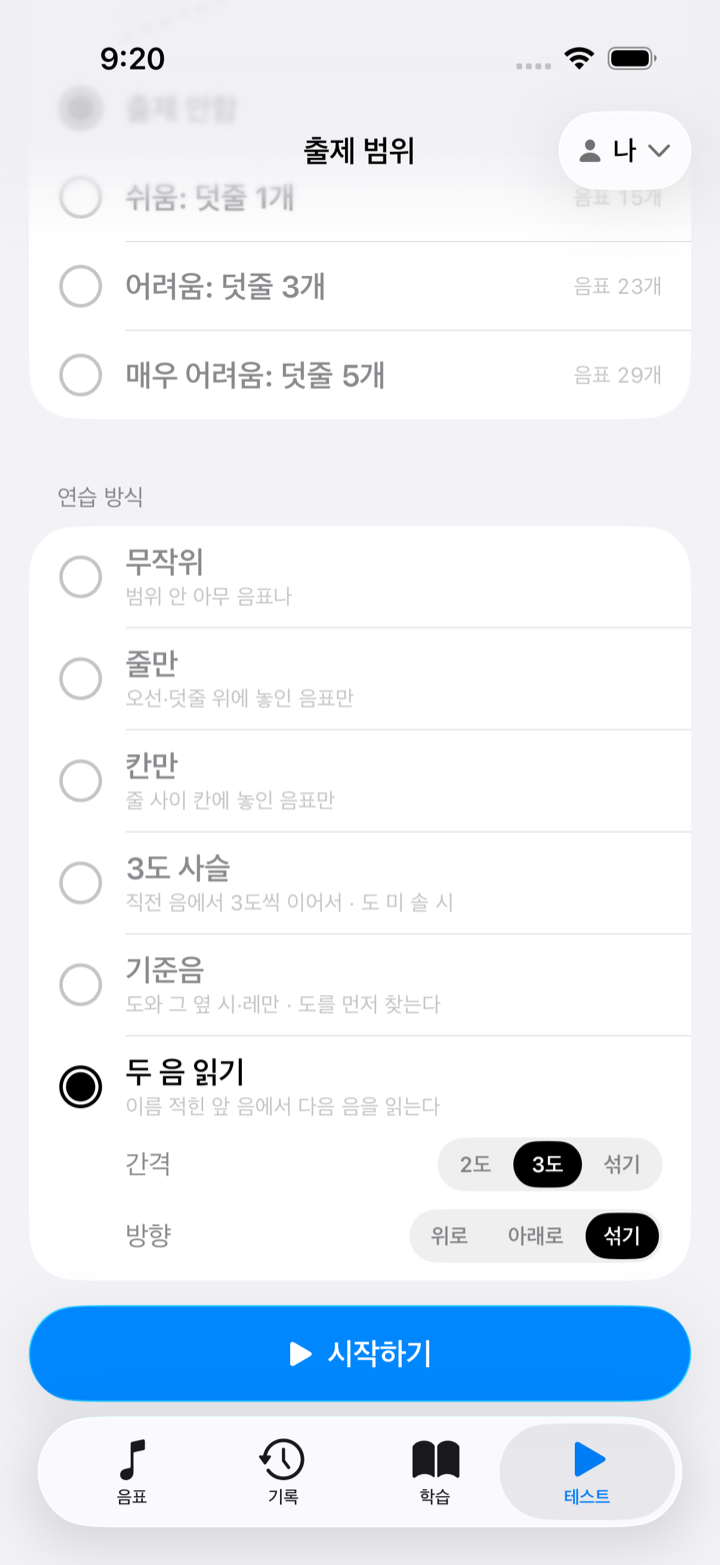
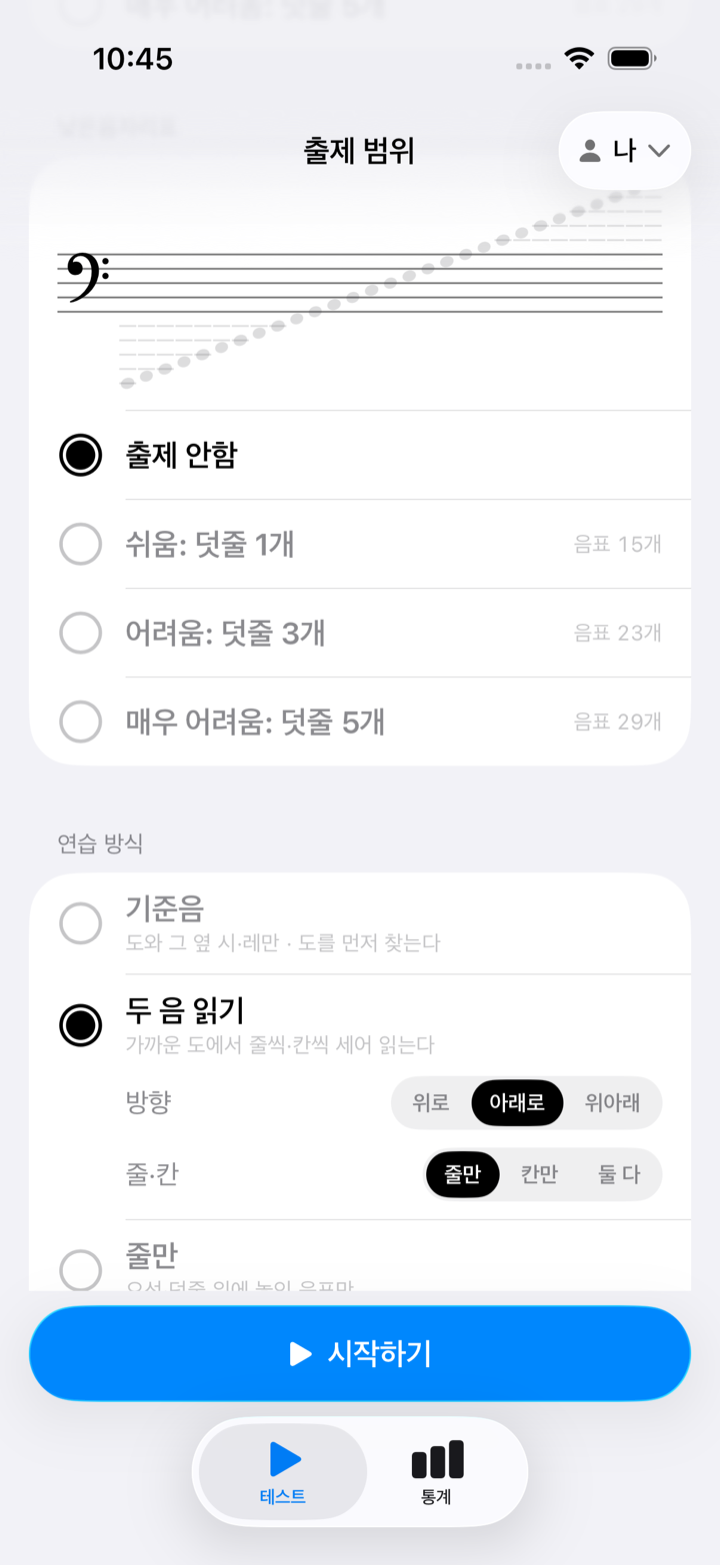
improve: blog — 계이름 퀴즈에 '어떻게 나올지'를 고르는 축을 하나 더 달았다 (merge 2026-09-21)
Merge the same-day follow-up into the practice-modes post: the chain of thirds is gone, two-note reading counts from the nearest do with dotted skip hints and dotted ledger lines, landmarks show the do slot. Sentences the app no longer follows (six styles, interval option, first note inside the range) are fixed in place; a dated section explains the reversal. Screenshots replaced with the new drills.

Claude-Session: https://claude.ai/code/session_016nZB67zdWrdkd6QGu3LUgj

diff --git a/src/content/blog/ko/2026-09-21-notequiz-practice-modes.md b/src/content/blog/ko/2026-09-21-notequiz-practice-modes.md
@@ -3,55 +3,77 @@ title: "계이름 퀴즈에 '어떻게 나올지'를 고르는 축을 하나 더
 date: 2026-09-21
 app: "notequiz"
 tags: ["devlog", "design", "swiftui"]
-summary: "출제 범위는 무엇이 나올 수 있는지만 정한다. 그 안에서 줄만·칸만, 3도씩 이어서, 도 찾기, 앞 음을 보고 다음 음 읽기까지 — 연습 방식을 따로 고르게 했다. 옥타브별로 나누자는 첫 생각은 버렸다."
+summary: "출제 범위는 무엇이 나올 수 있는지만 정한다. 그 안에서 도 찾기, 가까운 도에서 줄씩·칸씩 세어 읽기, 줄만·칸만 — 연습 방식을 따로 고르게 했다. 옥타브별로 나누자는 첫 생각과 3도 사슬은 버렸다."
 ---
 
-SuperNoteQuiz 의 테스트 탭에 `연습 방식` 카드가 하나 생겼다. 전에는 음자리표마다 덧줄을 몇 개까지 낼지(쉬움·어려움·매우 어려움)만 고르면 그 범위 안에서 음표 하나가 무작위로 나왔다. 이제 그 범위 안에서 *어떻게* 나올지를 따로 고른다. 줄 위 음표만, 칸 안 음표만, 직전 음에서 3도씩 이어서, 도와 그 옆만, 이름이 적힌 앞 음을 보고 다음 음 읽기. 범위와 방식은 곱이라, "낮은음자리표 쉬움 × 3도 사슬 아래로" 가 곧 "가온다에서 도 라 파 레 시 솔 미 도 로 내려가기" 가 된다.
+SuperNoteQuiz 의 테스트 탭에 `연습 방식` 카드가 하나 생겼다. 전에는 음자리표마다 덧줄을 몇 개까지 낼지(쉬움·어려움·매우 어려움)만 고르면 그 범위 안에서 음표 하나가 무작위로 나왔다. 이제 그 범위 안에서 *어떻게* 나올지를 따로 고른다. 도와 그 옆만, 이름이 적힌 가까운 도에서 세어 다음 음 읽기, 줄 위 음표만, 칸 안 음표만, 무작위. 범위와 방식은 곱이라, "낮은음자리표 쉬움 × 두 음 읽기 아래로" 가 곧 "가온다에서 내려가며 세기" 가 된다.
 
 ## 범위는 '무엇이', 방식은 '어떻게'
 
-무작위 단음 퀴즈로는 안 늘던 게 있었다. 오선 읽기의 골격은 줄 사슬(미 솔 시 레 파)과 칸 사슬(파 라 도 미)인데, 무작위로 섞여 나오면 그 사슬이 머리에 안 잡힌다. 그리고 실제 초견은 절대 위치를 하나씩 읽는 게 아니라 *직전 음에서 얼마나 움직였나* 를 읽는다. 단음 문제만으로는 그 감각이 안 생긴다.
+무작위 단음 퀴즈로는 안 늘던 게 있었다. 오선 읽기의 골격은 줄 사슬(미 솔 시 레 파)과 칸 사슬(파 라 도 미)인데, 무작위로 섞여 나오면 그 사슬이 머리에 안 잡힌다. 그리고 실제 초견은 절대 위치를 하나씩 읽는 게 아니라 *아는 음에서 얼마나 떨어졌나* 를 읽는다. 단음 문제만으로는 그 감각이 안 생긴다.
 
-그래서 방식을 여섯 칸으로 뒀다.
+그래서 방식을 다섯 칸으로 뒀다. 순서는 배우는 차례다.
 
 | 방식 | 나오는 것 |
 |------|-----------|
-| 무작위 | 지금까지의 방식. 기본값 |
-| 줄만 / 칸만 | 오선 위치가 짝수인 음표만, 홀수인 음표만 |
-| 3도 사슬 | 문제는 단음이지만 순서가 직전 음의 3도 위(또는 아래). 위로·아래로·번갈아 |
 | 기준음 | 도와 그 바로 옆 시·레만. 도를 먼저 찾고 한 칸 세는 연습 |
-| 두 음 읽기 | 오선에 음표 둘. 앞 음엔 이름이 적혀 있고, 다음 음의 이름을 답한다. 간격 2도·3도·섞기, 방향 위로·아래로·섞기 |
+| 두 음 읽기 | 오선에 이름 적힌 가까운 도와 문제 음. 도에서 줄씩·칸씩 세어 문제 음의 이름을 답한다. 방향 위로·아래로·위아래, 종류 줄만·칸만·둘 다 |
+| 줄만 / 칸만 | 오선 위치가 짝수인 음표만, 홀수인 음표만 |
+| 무작위 | 지금까지의 방식. 여전히 기본값 |
 
-![연습 방식 카드. 고른 행 아래에만 그 방식의 보조 값(간격·방향)이 펼쳐진다](/blog/notequiz-practice-modes/practice-card.png)
+![연습 방식 카드. 고른 행 아래에만 그 방식의 보조 값(방향·줄칸)이 펼쳐진다](/blog/notequiz-practice-modes/practice-card.png)
 
-고른 방식에 딸린 값은 그 행 바로 아래에 펼쳤다. 사슬에는 방향이, 두 음 읽기에는 간격과 방향이 있는데, 이걸 카드로 따로 빼면 어느 방식의 값인지를 글로 설명해야 한다. 행 아래 붙어 있으면 자리가 소속을 말한다. 방식을 바꿔도 보조 값은 지우지 않는다 — 돌아왔을 때 아까 그 값이 그대로 있어야 한다.
+고른 방식에 딸린 값은 그 행 바로 아래에 펼쳤다. 두 음 읽기에는 방향과 종류가 있는데, 이걸 카드로 따로 빼면 어느 방식의 값인지를 글로 설명해야 한다. 행 아래 붙어 있으면 자리가 소속을 말한다. 방식을 바꿔도 보조 값은 지우지 않는다 — 돌아왔을 때 아까 그 값이 그대로 있어야 한다.
 
-줄만·칸만·기준음처럼 범위 안에서 다시 거르는 방식은 위쪽 미리보기에도 반영된다. 범위 안 음표 중 그 방식이 통과시킨 것만 잉크로 물든다. 생성기와 미리보기가 같은 판단 함수 하나를 본다.
+범위 안에서 다시 거르는 방식은 위쪽 미리보기에도 반영된다. 범위 안 음표 중 그 방식이 문제로 낼 수 있는 것만 잉크로 물든다. 생성기와 미리보기가 같은 판단 함수 하나를 본다.
 
 ![줄만을 고르면 미리보기에서 줄 위 음표만 잉크로 남는다](/blog/notequiz-practice-modes/lines-only-preview.png)
 
 ## 옥타브별로 나누자는 첫 생각을 버린 이유
 
-처음엔 "한 옥타브 안에서만 띄어세기" 를 생각했다. 도는 가온다에서 덧줄(줄) 위에 있고 한 옥타브 위에서는 칸에 있으니, 같은 이름이라도 줄·칸이 바뀌어 헷갈린다는 이유였다. 그런데 셈을 해 보면 3도 위는 줄이면 항상 줄, 칸이면 항상 칸이다. 바뀌는 건 "이름 → 줄/칸" 대응이고 그 주기가 정확히 8음, 즉 한 옥타브다. 높은음자리표 줄 사슬을 가온다에서 시작하면 도 미 솔 시 레 파 라 도 — 이 여덟 개가 한 바퀴다.
-
-그러니 옥타브로 자르면 사슬이 반으로 끊긴다. 대신 사슬을 `(음자리표, 줄/칸, 방향)` 으로 정의하고 범위 끝까지 한 번에 돌게 했다. 옥타브를 넘어가는 지점이 오히려 연습 포인트다. 사슬이 끝에 닿으면 반대 종류(줄이었으면 칸)의 맨 아래에서 다시 시작하고, `번갈아` 는 꼭대기에서 같은 사슬을 거꾸로 읽은 뒤 바닥에서 종류를 바꾼다.
+처음엔 "한 옥타브 안에서만 띄어세기" 를 생각했다. 도는 가온다에서 덧줄(줄) 위에 있고 한 옥타브 위에서는 칸에 있으니, 같은 이름이라도 줄·칸이 바뀌어 헷갈린다는 이유였다. 그런데 셈을 해 보면 3도 위는 줄이면 항상 줄, 칸이면 항상 칸이다. 바뀌는 건 "이름 → 줄/칸" 대응이고 그 주기가 정확히 8음, 즉 한 옥타브다. 그러니 옥타브로 자르면 세는 길이 반으로 끊긴다. 옥타브를 넘어가는 지점이 오히려 연습 포인트다.
 
 기준음도 비슷하게 단순해졌다. 두 음자리표는 가온다를 중심으로 거울이다 — 높은음자리표에서 `p` 위치의 도는 낮은음자리표 `-p` 위치의 도와 짝이다. 처음엔 도만 내고 옥타브(C3·C4·C5)를 답하게 할까 했는데, 그러면 답 트레이가 하나 더 생긴다. 도·시·레만 내면 기존 일곱 칸 트레이 그대로 "도를 찾고 한 칸 센다" 가 되고, 문제마다 재는 시계가 "도를 몇 초에 찾나" 를 말해 준다. 옥타브 답은 나중 몫으로 남겼다.
 
-## 앞 음의 이름은 답이 아니다
+## 도의 이름과 점선은 답이 아니다
 
-이 앱에는 "틀렸을 때 정답을 어떤 문자열로도 보여 주지 않는다" 는 규칙이 있다. 두 음 읽기는 오선에 이름을 적는다. 규칙과 부딪히는 것처럼 보이지만, 적히는 건 *이미 지나간 음* 이고 답은 그 다음 음이다. 앞 음이 미라는 걸 알려 주는 게 이 연습의 전제다.
+이 앱에는 "틀렸을 때 정답을 어떤 문자열로도 보여 주지 않는다" 는 규칙이 있다. 두 음 읽기는 오선에 이름을 적는다. 규칙과 부딪히는 것처럼 보이지만, 적히는 건 *주어진 도* 이고 답은 그 도에서 세어 닿는 음이다. 도가 어디인지 아는 게 이 연습의 전제다.
 
-![앞 음 미 옆에 이름이 적혀 있고, 그 3도 위의 음이 문제다](/blog/notequiz-practice-modes/two-note-reading.png)
+이름을 어디에 적을지는 오선이 정해 줬다. 머리 아래는 아래로 뻗는 꼬리(70pt)가, 머리 위아래 두 칸(23pt)은 다음 덧줄이 차지한다. 비어 있는 자리는 머리 왼쪽뿐이다. 그래서 두 음 쌍 전체를 조금 오른쪽으로 밀고, 도 머리 왼쪽에 머리 높이로 이름을 적었다. 내 답이 아니라 주어진 값이라 잉크가 아니라 회색이다.
 
-이름을 어디에 적을지는 오선이 정해 줬다. 머리 아래는 아래로 뻗는 꼬리(70pt)가, 머리 위아래 두 칸(23pt)은 다음 덧줄이 차지한다. 비어 있는 자리는 머리 왼쪽뿐이다. 그래서 두 음 쌍 전체를 조금 오른쪽으로 밀고, 앞 음 머리 왼쪽에 머리 높이로 이름을 적었다. 내 답이 아니라 주어진 값이라 잉크가 아니라 회색이다. 앞 음도 고른 범위 안에 있어야 한다 — 범위 밖 음을 이름 붙여 보여 주면 "덧줄 1개까지" 라는 약속이 깨진다.
+세션 칩에는 `두 음 읽기 · 줄 ↓` 처럼 방식이 붙고, 무작위는 아무것도 안 붙는다. 기본값을 모든 행에 적으면 아무것도 구별하지 못한다.
 
-3도 사슬은 다음 문제가 예측된다. 문제 화면에 현재 문제의 답에 가까워지는 정보를 두지 않는다는 규칙이 있는데, 사슬은 순서 자체가 연습 대상이라 예측되는 게 의도다. 대신 무작위와 이름을 나눠 기록에 남긴다. 세션 칩에 `3도 사슬 ↑` 이 붙고, 무작위는 아무것도 안 붙는다. 기본값을 모든 행에 적으면 아무것도 구별하지 못한다.
+## 2026-09-21 — 3도 사슬을 빼고, 두 음 읽기를 '도에서 세기' 로 바꿨다
+
+처음 판에는 방식이 여섯이었다. 직전 음의 3도 위·아래로 이어 내는 `3도 사슬` 이 있었고, 두 음 읽기의 앞 음은 2도나 3도 떨어진 *아무 음* 이었다. 하루 써 보니 둘 다 어긋났다.
+
+사슬은 문제가 아니라 순서였다. 도 미 솔 시 를 차례로 내면 답이 앞 문제에서 따라 나온다. 읽는 게 아니라 외운 순서를 되뇌는 것이고, 문제 시계도 정답률도 다른 방식과 비교가 안 됐다. 사슬이 가르치려던 것 — 줄끼리·칸끼리 띄어세기 — 은 문제 하나 *안에서* 보여 주는 편이 맞다.
+
+두 음 읽기의 앞 음이 아무 음인 것도 문제였다. "앞 음에서 한 칸" 은 되지만, 실제로 초견에서 기준이 되는 건 도다. 기준음 드릴(도·시·레)과 두 음 읽기가 같은 축인데 서로 다른 기준을 써서 이어지지 않았다.
+
+그래서 유형을 "도를 기준으로 세는 연습" 한 줄기로 다시 세웠다. 두 음 읽기는 이제 **방향에 맞는 가까운 도** 를 이름 적어 보이고, 도와 문제 음 사이에서 문제 음과 같은 종류의 자리 — 문제가 줄이면 줄마다, 칸이면 칸마다 — 에 회색 점선 동그라미를 찍는다. 도가 칸이고 문제가 줄이면 첫 동그라미는 2도 위, 그다음부터 3도씩. 도에서 줄을 세는 길 그대로다. 점선 머리가 오선 밖이면 그 자리까지의 덧줄도 같은 점선으로 그린다 — 덧줄 없이 떠 있는 머리는 몇 번째 덧줄인지 셀 수 없다.
+
+![도(C5)에서 아래로 줄을 세어 미(E4)에 닿는다. 사이의 시·솔 자리가 점선이다](/blog/notequiz-practice-modes/two-note-from-do.png)
+
+방향이 있으면 "가까운 도" 가 방향과 어긋날 수 있다. `위로` 는 문제 음 *아래* 의 가장 가까운 도, `아래로` 는 *위* 의 도, `위아래` 는 통틀어 가장 가까운 도를 쓴다. 문제 음 바로 위에 더 가까운 도가 있어도 `위로` 면 아래 도다.
+
+도는 고른 범위 밖이어도 된다. 이건 첫 판을 뒤집은 것이다. 처음엔 "범위 밖 음을 이름 붙여 보여 주면 범위 약속이 깨진다" 고 적었는데, 도는 이름이 적혀 *주어지는* 음이라 읽을 부담이 없고, 범위 안으로 묶으면 좁은 범위(덧줄 1개)에서 `아래로` 의 문제 절반이 사라진다 — 레5~시5 의 위쪽 도 C6 이 범위 밖이라서다. 도 자신은 문제로 나오지 않는다. 주어지는 쪽이다.
+
+기준음 드릴에도 같은 점선이 들어갔다. 도가 아닌 레·시 문제에는 가까운 도 자리(레는 한 칸 아래, 시는 한 칸 위)를 문제 음표 왼쪽에 점선으로 찍는다. 이름은 안 적는다 — 도가 어디인지 아는 게 이 드릴의 내용이다.
+
+![레(D6) 문제. 왼쪽에 도 자리가 점선 머리와 점선 덧줄로 찍혀 있다](/blog/notequiz-practice-modes/landmark-do-hint.png)
+
+점선은 답이 아니라 세는 길이다. 문제 화면에 현재 문제의 답에 가까워지는 정보를 두지 않는다는 규칙이 있는데, 점선 자리는 이름 없는 빈 머리고 그 자리를 세는 것 자체가 연습이라 문제의 일부다. 매번 방식·도·문제 음에서 파생되는 값이라 기록에는 남기지 않는다.
+
+점선을 어느 열에 둘지도 오선이 정했다. 문제 음표 열에 세로로 쌓으면 꼬리와 덧줄이 같은 열을 차지해 겹친다. 두 머리 사이 열은 비어 있어서 거기 세우고, 그때만 두 머리 간격을 머리 폭 1.9배에서 2.8배로 벌려 점선이 어느 덧줄에도 안 걸리게 했다.
+
+열한 가지를 라디오 열한 행으로 늘어놓는 안도 있었다. 두 음 읽기 일곱 줄은 방향 × 종류의 곱이라, 방식 5행 + 보조 값 두 줄이면 같은 선택을 절반 높이로 한다.
 
 ## 남은 것
 
-문제 하나가 여전히 음표 하나라서 기록의 단위와 통계는 손대지 않았다. 두 음 읽기의 앞 음은 로그에 저장되지만 복습 화면은 아직 문제 음표만 그린다. 사슬로 푼 판의 정답률은 순서를 알고 푼 값이라 무작위 판과 같은 값이 아니다. 칩이 방식을 말해 주니 읽을 때 구분은 되지만, 통계가 방식별로 나뉘지는 않는다. 쓰이는 걸 보고 정한다.
+문제 하나가 여전히 음표 하나라서 기록의 단위와 통계는 손대지 않았다. 두 음 읽기의 도는 로그에 저장되지만 복습 화면은 아직 문제 음표만 그린다 — 도도 점선도 없다. 순서가 답을 주는 방식이 없어져 문제 시계와 정답률은 이제 방식끼리 비교할 수 있지만, 통계가 방식별로 나뉘지는 않는다. 쓰이는 걸 보고 정한다.
 
 ## 이력
 
 - 2026-09-21 — 연습 방식 축 추가 (줄만·칸만·3도 사슬·기준음·두 음 읽기)
+- 2026-09-21 — 3도 사슬 제거, 두 음 읽기를 가까운 도 + 사이 자리 점선으로, 기준음에 도 자리 점선, 점선 덧줄

diff --git a/src/content/blog/en/2026-09-21-notequiz-practice-modes.md b/src/content/blog/en/2026-09-21-notequiz-practice-modes.md
@@ -3,53 +3,65 @@ title: "The note quiz now asks how notes come, not just which"
 date: 2026-09-21
 app: "notequiz"
 tags: ["devlog", "design", "swiftui"]
-summary: "Range only says which notes can appear. A second axis picks how: lines only, chains of thirds, landmark do, or reading the next note from a labeled one. The first idea, splitting by octave, lost."
+summary: "Range only says which notes can appear. A second axis picks how: find do, count from the nearest do line by line, lines only, spaces only. Splitting by octave lost, and so did the chain of thirds."
 ---
 
-SuperNoteQuiz's test tab gained a `Practice style` card. Until now you picked, per clef, how many ledger lines the quiz may use, and one random note came out of that range. Now you also pick how notes come: only notes on lines, only in spaces, each a third above the last, only do and its neighbors, or a labeled first note followed by the one you have to name. Range and style multiply: "bass clef, easy × chain of thirds downward" is exactly "from middle C down: do la fa re si sol mi do".
+SuperNoteQuiz's test tab gained a `Practice style` card. Until now you picked, per clef, how many ledger lines the quiz may use, and one random note came out of that range. Now you also pick how notes come: only do and its neighbors, a labeled nearest do you count from, only notes on lines, only in spaces, or random. Range and style multiply: "bass clef, easy × two-note reading downward" is exactly "count down from middle C".
 
 ## Range is *which*, style is *how*
 
-Random single notes never taught two things. Staff reading rests on the line chain (mi sol si re fa) and the space chain (fa la do mi), and shuffled notes never let those chains settle. And real sight reading is not naming absolute positions one by one; it is reading how far the note moved from the last one.
+Random single notes never taught two things. Staff reading rests on the line chain (mi sol si re fa) and the space chain (fa la do mi), and shuffled notes never let those chains settle. And real sight reading is not naming absolute positions one by one; it is reading how far a note sits from one you already know.
+
+Five styles, listed in learning order:
 
 | Style | What comes out |
 |-------|----------------|
-| Random | The old behavior, and the default |
-| Lines only / Spaces only | Notes at even staff positions, or odd ones |
-| Chain of thirds | Single notes, but each a third above (or below) the previous. Up, down, or alternating |
 | Landmarks | Only do and its neighbors si and re: find do, then count one step |
-| Two-note reading | Two notes on the staff. The first is labeled; you name the second. Interval 2nd, 3rd or mixed; direction up, down or mixed |
+| Two-note reading | A labeled nearest do plus the question note. Count from do, line by line or space by space, and name the note. Direction up, down or either; kind lines, spaces or both |
+| Lines only / Spaces only | Notes at even staff positions, or odd ones |
+| Random | The old behavior, still the default |
 
 ![The practice card. Only the chosen row unfolds its own options](/blog/notequiz-practice-modes/practice-card.png)
 
-Options that belong to a style live directly under its row. A separate card would need prose to say which style the direction belongs to; placement says it. Switching styles keeps the options, so coming back finds them where you left them.
-
-The subset styles also show in the range preview above: of the notes inside the range, only those the style lets through are inked. The generator and the preview call the same function.
+Options that belong to a style live directly under its row. Switching styles keeps them, so coming back finds them where you left them. The subset styles also show in the range preview above: only the notes the style can actually ask are inked. The generator and the preview call the same function.
 
 ![With Lines only, the preview keeps ink only on the line notes](/blog/notequiz-practice-modes/lines-only-preview.png)
 
 ## Why not split by octave
 
-The first idea was "skip-counting within one octave", since do sits on a ledger line at middle C but in a space an octave up. But a third above a line is always a line, and a third above a space is always a space. What changes is the mapping from name to line-or-space, and its period is exactly eight notes, one octave. Start the treble line chain at middle C and you get do mi sol si re fa la do; that is one full turn.
+The first idea was "skip-counting within one octave", since do sits on a ledger line at middle C but in a space an octave up. But a third above a line is always a line, and a third above a space is always a space. What changes is the mapping from name to line-or-space, and its period is exactly one octave. Cutting there would break the counting path in half; crossing the octave is the point.
 
-Cutting at the octave would break the chain in half. So a chain is defined by (clef, lines or spaces, direction) and runs the whole range in one go; crossing the octave is the point. When it reaches the end it restarts at the bottom of the other kind, and `Alternate` reads the same chain back down before switching.
+Landmarks got simpler the same way. I considered asking for the octave (C3, C4, C5) of a lone do, but that needs a second answer tray. Asking for do, si and re keeps the seven-name tray and the per-question timer says how fast you find do.
 
-Landmarks got simpler the same way. The two clefs mirror around middle C. I considered asking for the octave (C3, C4, C5) of a lone do, but that needs a second answer tray. Asking for do, si and re keeps the seven-name tray and the per-question timer says how fast you find do. The octave version stays on the list.
+## The label and the dots are not the answer
 
-## The label is not the answer
+The app never shows the correct name after a wrong answer, in any form. Two-note reading writes a name on the staff, but the label belongs to the given do; the answer is the note you reach by counting from it. The name sits to the left of the do's head, at head height, in gray rather than ink, because that is the only side the stem and ledger lines leave empty.
 
-The app never shows the correct name after a wrong answer, in any form. Two-note reading writes a name on the staff, which looks like a conflict, but the label belongs to the note that already passed; the answer is the next one. Knowing the first note is mi is the premise of the exercise.
+## 2026-09-21 — the chain of thirds is gone, and two-note reading counts from do
 
-![The first note is labeled mi; the question is the note a third above it](/blog/notequiz-practice-modes/two-note-reading.png)
+The first version had six styles: a `Chain of thirds` that fed each question a third above or below the last, and two-note reading whose labeled first note was *any* note a second or third away. A day of use showed both were off.
 
-The staff decided where the label goes. Below the head is the stem; two half-steps above and below are the next ledger lines. The only empty side is the left. So the pair shifts slightly right and the name sits to the left of the first head, at head height, in gray rather than ink because it is given, not answered. The first note must also be inside the chosen range, or "up to one ledger line" stops being true.
+The chain was an order, not a question. Do mi sol si in sequence means each answer follows from the previous one; that is reciting, not reading, and neither the timer nor the accuracy compared with other styles. What the chain was meant to teach, skipping by lines or by spaces, belongs *inside* one question.
 
-Chains are predictable by design, which brushes against the rule that the quiz screen shows nothing that brings you closer to the current answer. Here the order is what is being practiced. In return the record keeps the style apart from random: the session chip says `Chain of thirds ↑`, and random sessions say nothing, because a default written on every row distinguishes nothing.
+And an arbitrary first note was the wrong anchor. What sight readers actually anchor on is do. Landmarks and two-note reading were the same axis using different anchors.
+
+So the styles now form one line: counting from do. Two-note reading shows the **nearest do in the chosen direction**, labeled, and marks every slot between do and the question note that is the same kind as the question, lines if the question is on a line, spaces if it is in a space, with a gray dotted head. A dotted head outside the staff gets its ledger lines dotted too; without them you cannot tell which ledger line it sits on.
+
+![Counting down by lines from do (C5) to mi (E4); si and sol in between are dotted](/blog/notequiz-practice-modes/two-note-from-do.png)
+
+Direction changes which do counts as nearest. `Up` uses the closest do *below* the note, `Down` the closest one *above*, `Either` the closest overall. The do may sit outside the chosen range, which reverses what the first version said: the do is given, not read, and keeping it inside the range would drop half the `Down` questions in a narrow range. Do itself is never asked.
+
+Landmarks got the same dots. A re or si question shows the adjacent do slot as one dotted head to the left, unlabeled, because knowing where do is *is* the drill.
+
+![A re question (D6). The do slot to its left is a dotted head on dotted ledger lines](/blog/notequiz-practice-modes/landmark-do-hint.png)
+
+The dots are the counting path, not the answer: empty heads with no name, and counting them is the exercise. They are derived per question and never saved. They stand in the column between the two heads, where nothing else is, and the pair spreads from 1.9 to 2.8 head widths only then, so the dots clear both sets of ledger lines.
 
 ## Where it stands
 
-A question is still one note, so records and statistics are untouched. The first note of a two-note question is saved but the review screen draws only the answered note. Accuracy in chain sessions is not the same number as in random ones; the chip makes that readable, but stats are not yet split by style.
+A question is still one note, so records and statistics are untouched. The review screen draws only the answered note, no do and no dots yet. With no style that gives the answer away by order, timing and accuracy now compare across styles, but stats are not split by style.
 
 ## History
 
 - 2026-09-21 — practice styles added (lines/spaces, chain of thirds, landmarks, two-note reading)
+- 2026-09-21 — chain removed; two-note reading counts from the nearest do with dotted skip hints; landmarks show the do slot; dotted ledger lines
